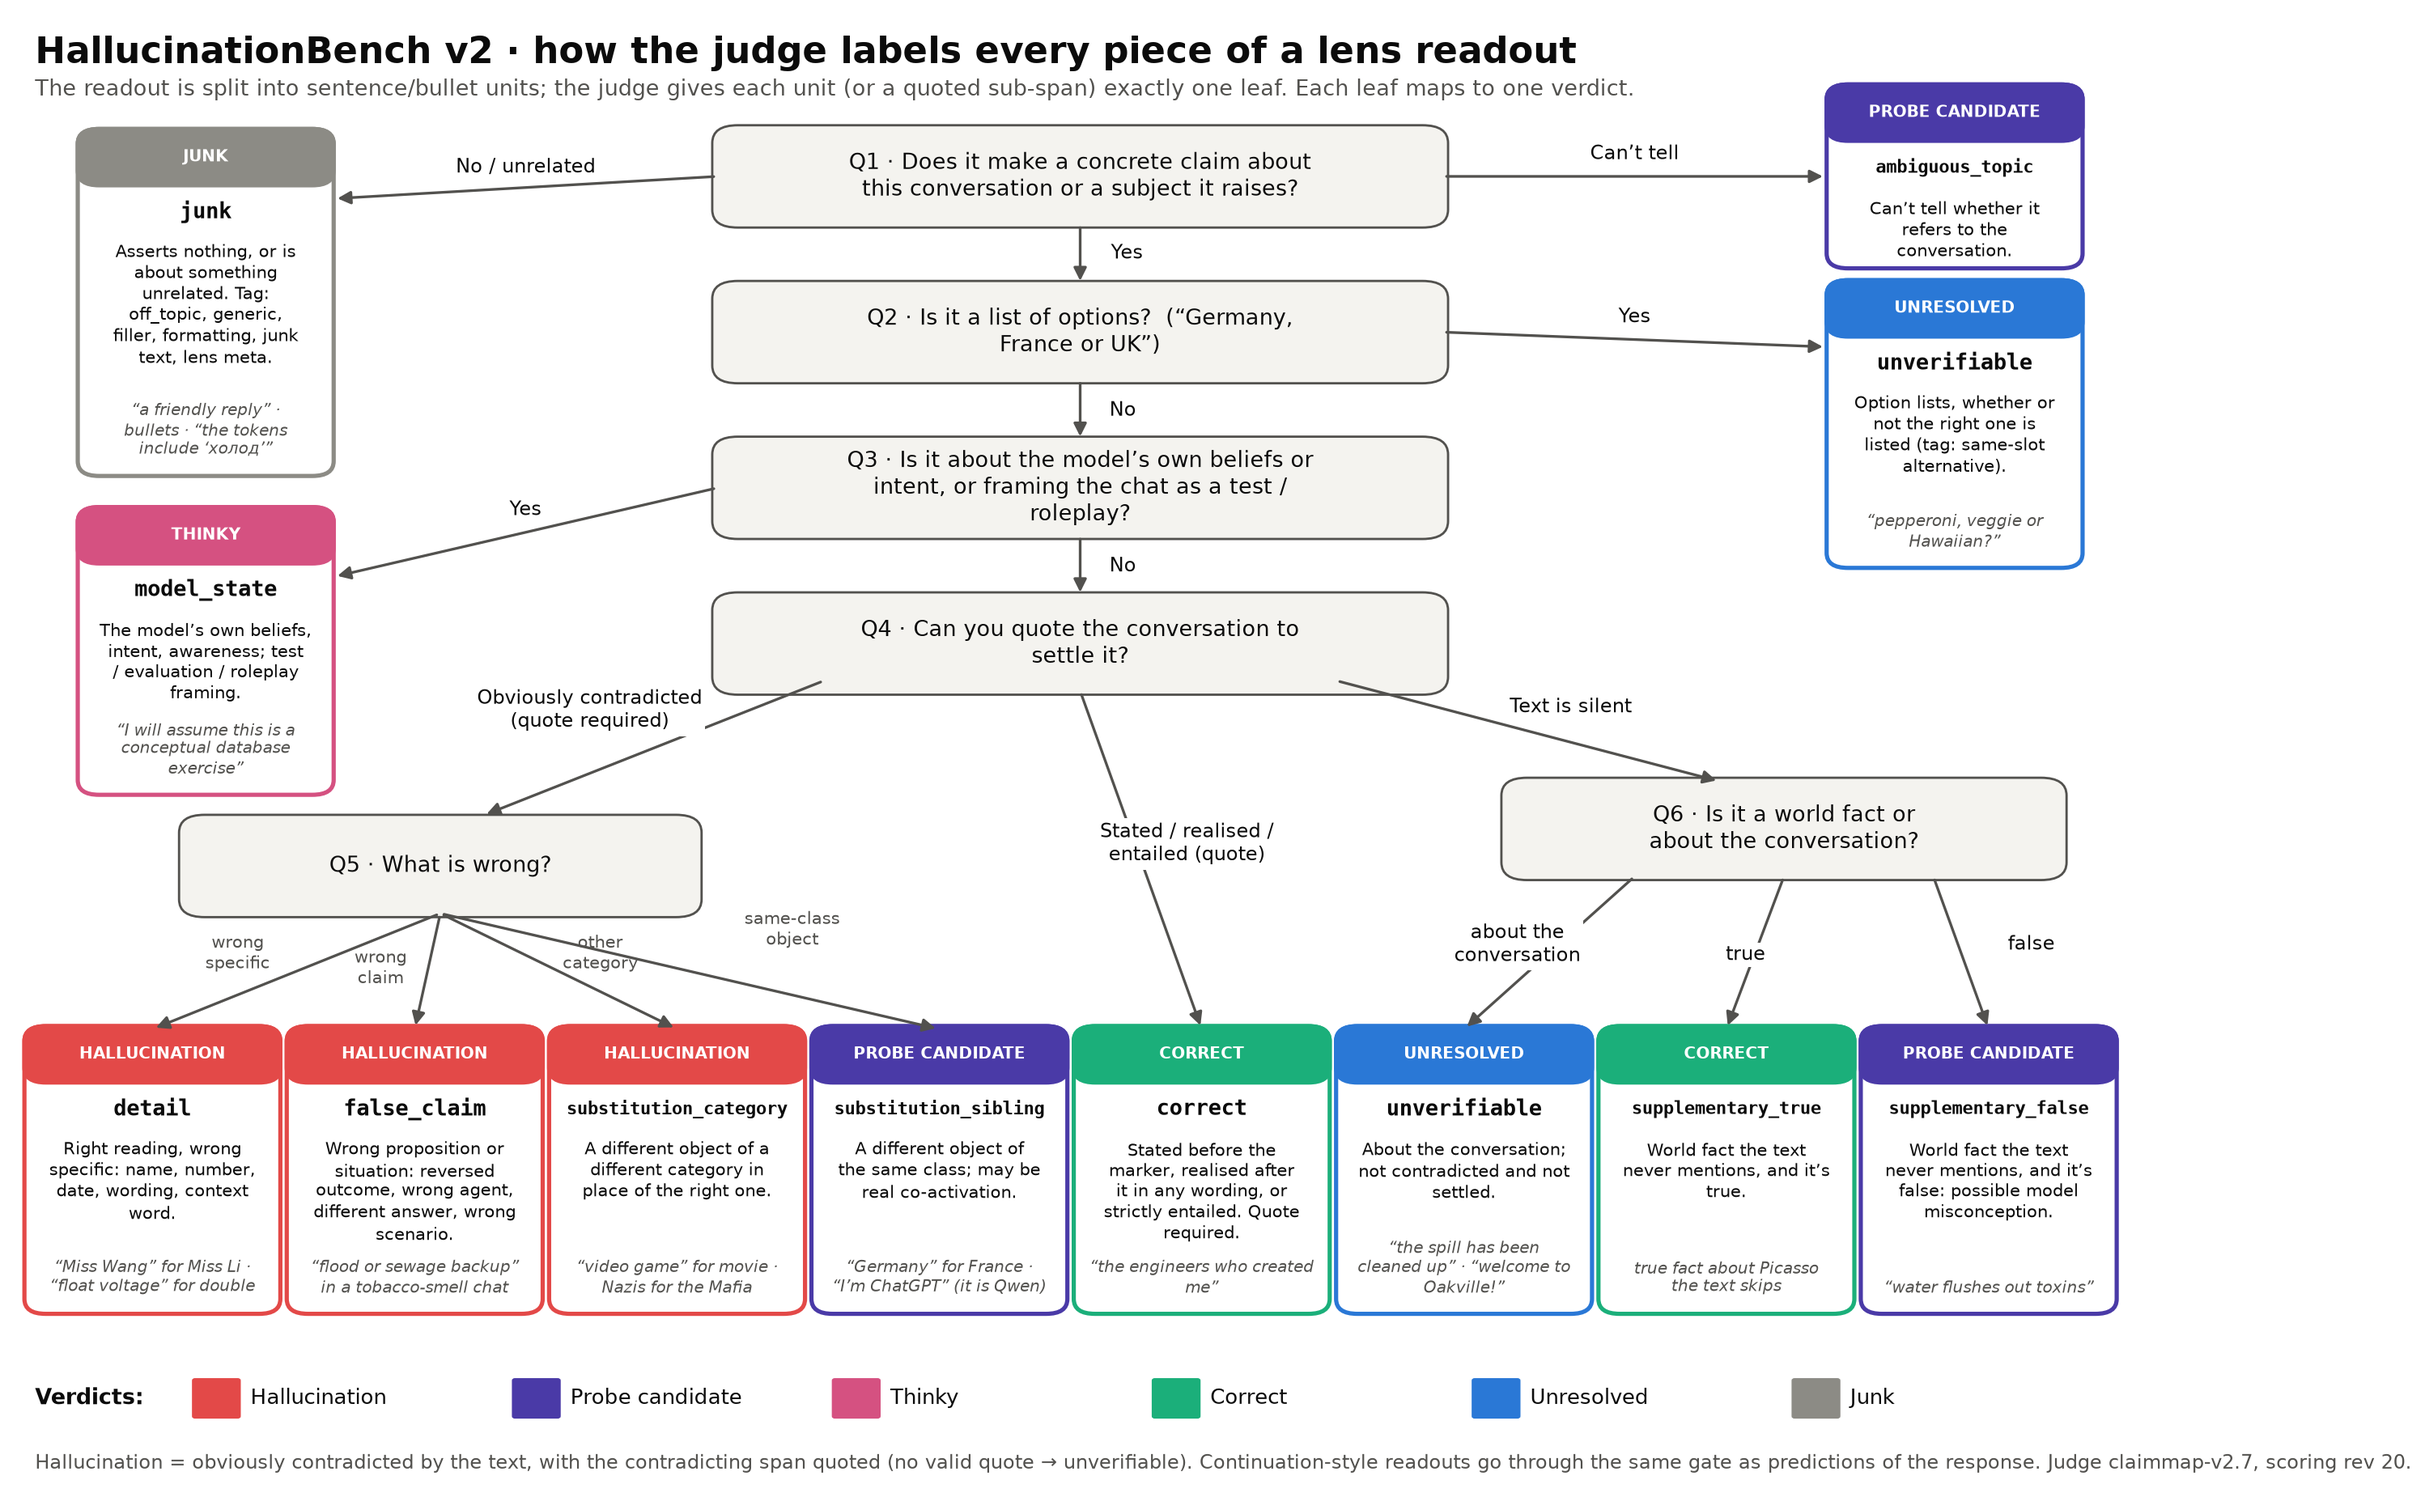
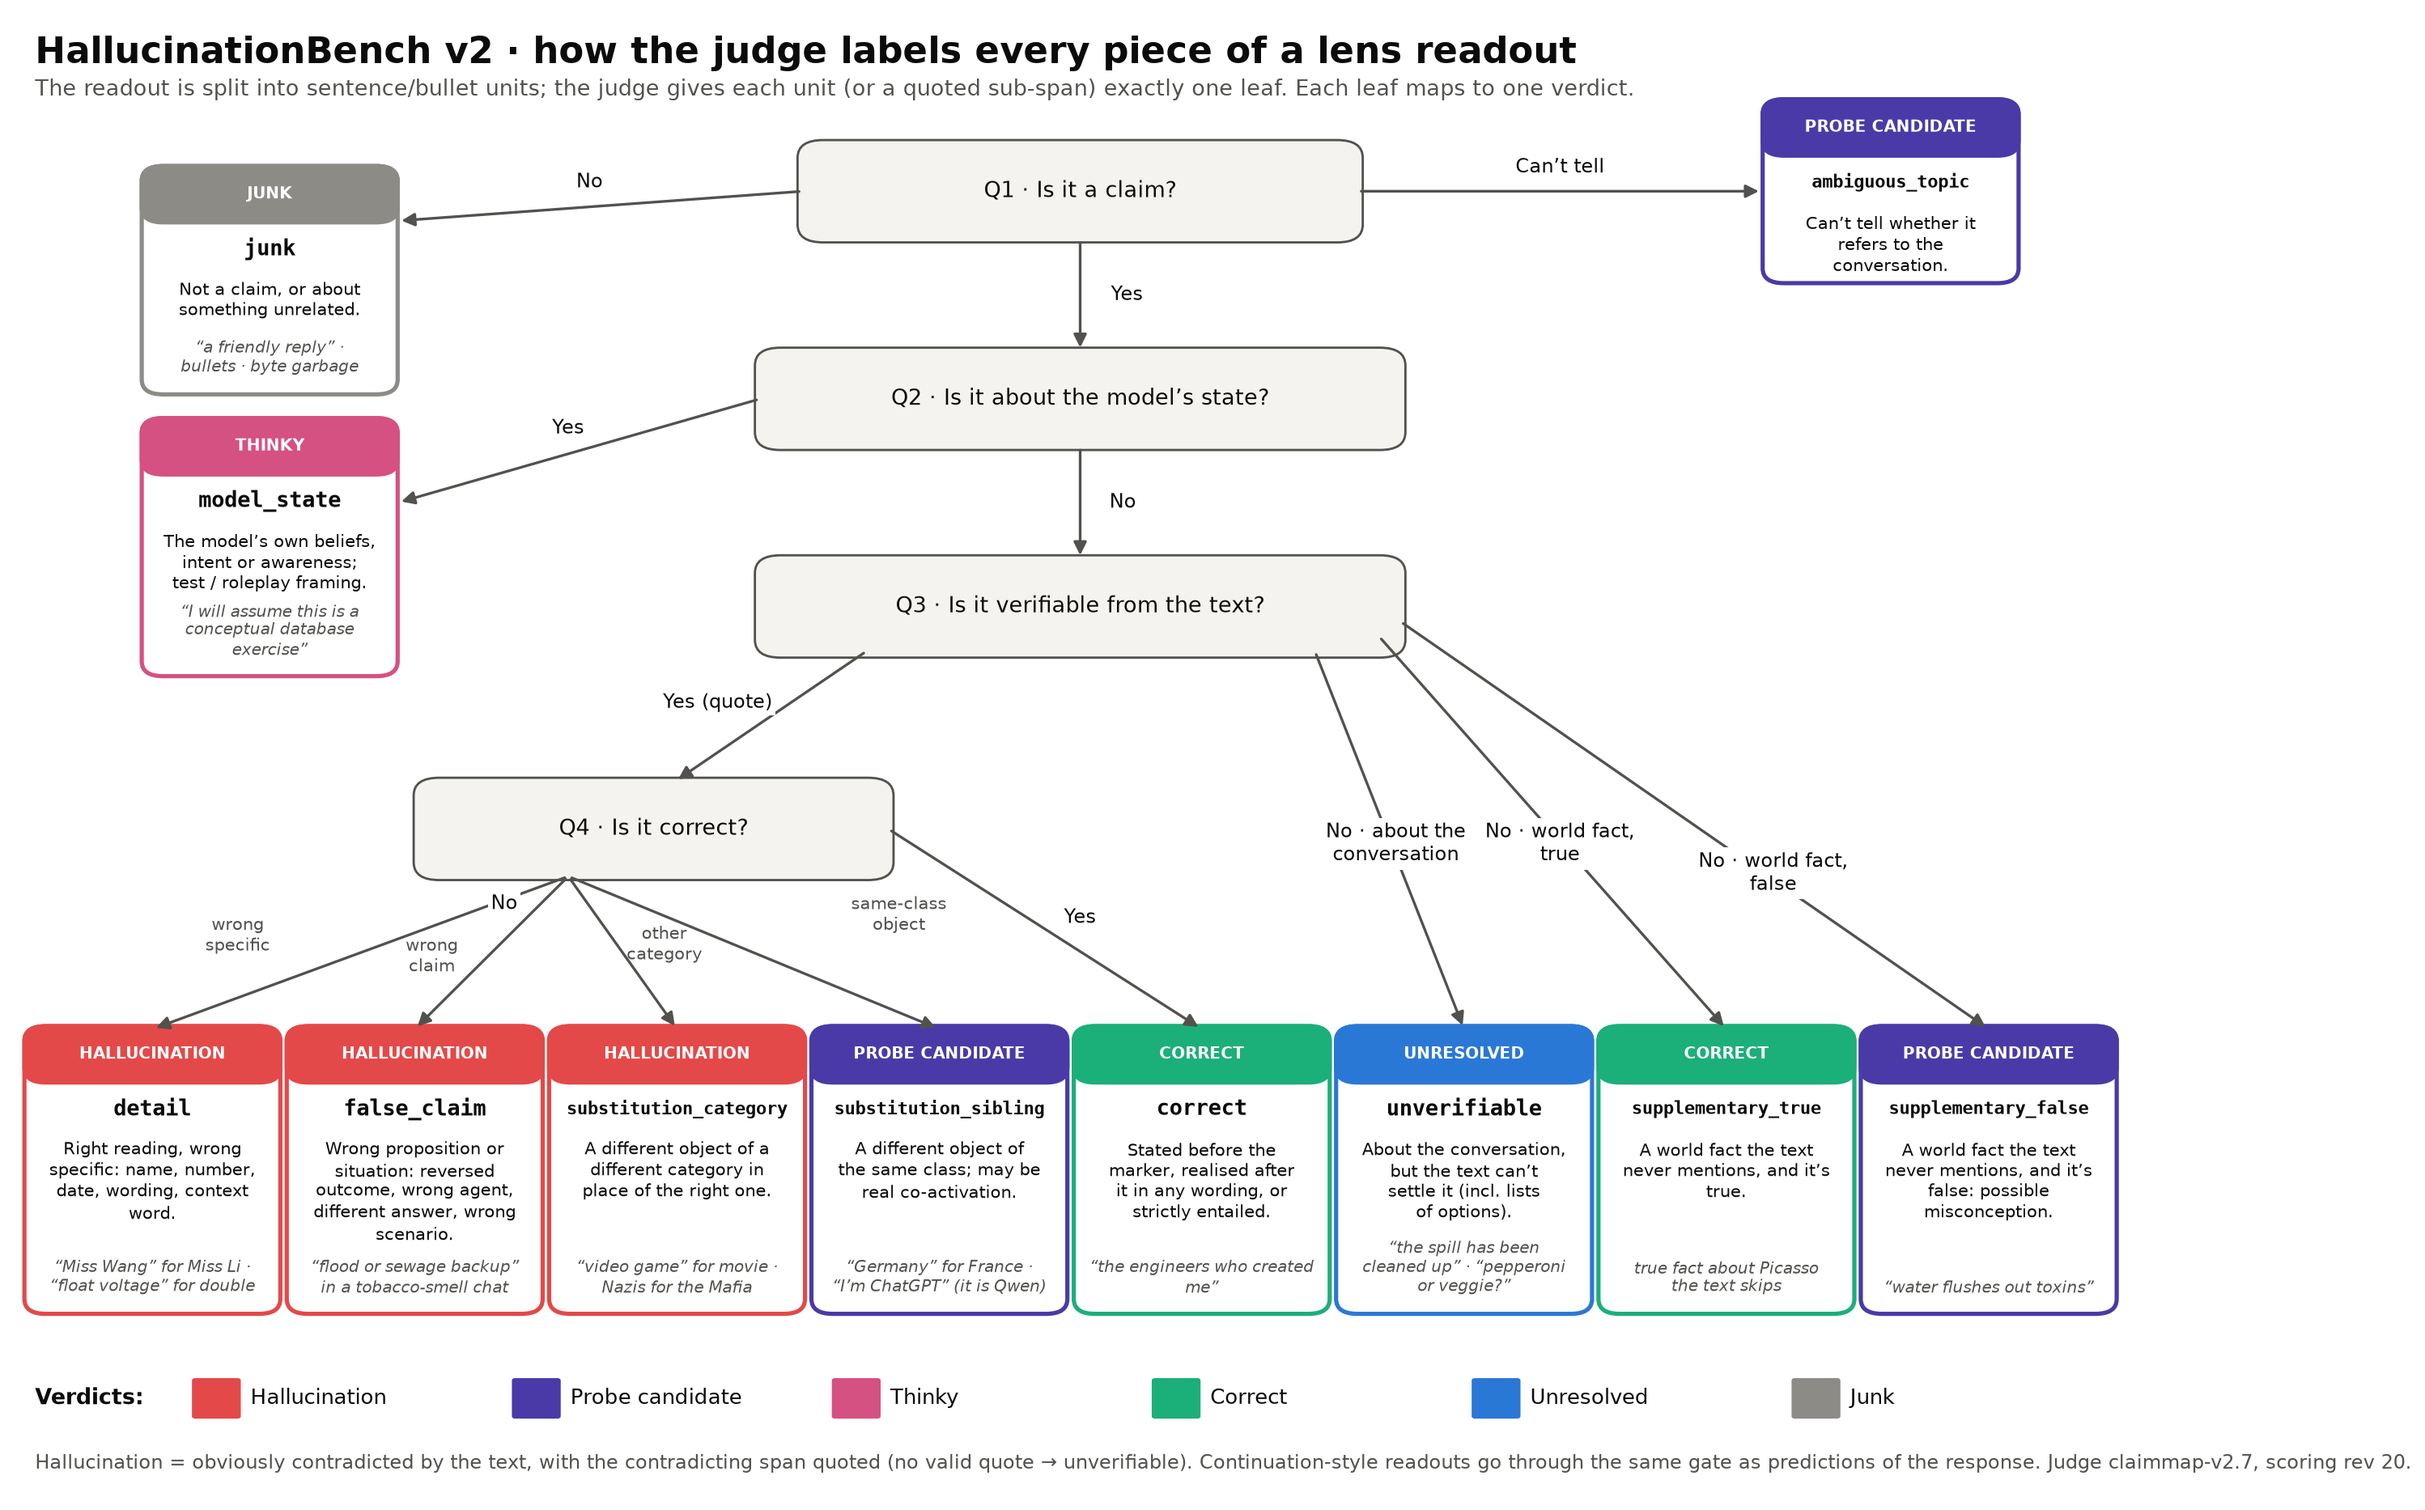
Judge-tree infographic: simplified to 4 questions (claim? model state? verifiable? correct?)

diff --git a/scripts/plot_judge_tree.py b/scripts/plot_judge_tree.py
@@ -164,65 +164,41 @@ def main() -> None:
     )
 
     # questions
-    question(
-        ax,
-        50,
-        89,
-        "Q1 · Does it make a concrete claim about this conversation or a subject it raises?",
-    )
-    question(ax, 50, 78.5, "Q2 · Is it a list of options?  (“Germany, France or UK”)")
-    question(
-        ax,
-        50,
-        68,
-        "Q3 · Is it about the model’s own beliefs or intent, or framing "
-        "the chat as a test / roleplay?",
-    )
-    question(ax, 50, 57.5, "Q4 · Can you quote the conversation to settle it?")
-    question(ax, 20, 42.5, "Q5 · What is wrong?", w=30, width=24)
-    question(ax, 83, 45, "Q6 · Is it a world fact or about the conversation?", w=30, width=26)
+    question(ax, 50, 88, "Q1 · Is it a claim?", w=40, width=26)
+    question(ax, 50, 74, "Q2 · Is it about the model\u2019s state?", w=40, width=30)
+    question(ax, 50, 60, "Q3 · Is it verifiable from the text?", w=40, width=30)
+    question(ax, 30, 45, "Q4 · Is it correct?", w=30, width=22)
 
     # side leaves
     card(
         ax,
-        9,
-        80.5,
+        12,
+        82,
         "JUNK",
         "junk",
-        "Asserts nothing, or is about something unrelated. "
-        "Tag: off_topic, generic, filler, formatting, junk text, lens meta.",
-        "“a friendly reply” · bullets · “the tokens include ‘холод’”",
-        h=23,
+        "Not a claim, or about something unrelated.",
+        "\u201ca friendly reply\u201d · bullets · byte garbage",
+        h=15,
     )
     card(
         ax,
-        91,
-        89,
+        88,
+        88,
         "PROBE CANDIDATE",
         "ambiguous_topic",
-        "Can’t tell whether it refers to the conversation.",
+        "Can\u2019t tell whether it refers to the conversation.",
         "",
         h=12,
     )
     card(
         ax,
-        91,
-        72.3,
-        "UNRESOLVED",
-        "unverifiable",
-        "Option lists, whether or not the right one is listed (tag: same-slot alternative).",
-        "“pepperoni, veggie or Hawaiian?”",
-        h=19,
-    )
-    card(
-        ax,
-        9,
-        57,
+        12,
+        64,
         "THINKY",
         "model_state",
-        "The model’s own beliefs, intent, awareness; test / evaluation / roleplay framing.",
-        "“I will assume this is a conceptual database exercise”",
-        h=19,
+        "The model\u2019s own beliefs, intent or awareness; test / roleplay framing.",
+        "\u201cI will assume this is a conceptual database exercise\u201d",
+        h=17,
     )
 
     # bottom row
@@ -234,7 +210,7 @@ def main() -> None:
         "HALLUCINATION",
         "detail",
         "Right reading, wrong specific: name, number, date, wording, context word.",
-        "“Miss Wang” for Miss Li · “float voltage” for double",
+        "\u201cMiss Wang\u201d for Miss Li · \u201cfloat voltage\u201d for double",
     )
     card(
         ax,
@@ -244,7 +220,7 @@ def main() -> None:
         "false_claim",
         "Wrong proposition or situation: reversed outcome, wrong agent, different answer, "
         "wrong scenario.",
-        "“flood or sewage backup” in a tobacco-smell chat",
+        "\u201cflood or sewage backup\u201d in a tobacco-smell chat",
     )
     card(
         ax,
@@ -253,7 +229,7 @@ def main() -> None:
         "HALLUCINATION",
         "substitution_category",
         "A different object of a different category in place of the right one.",
-        "“video game” for movie · Nazis for the Mafia",
+        "\u201cvideo game\u201d for movie · Nazis for the Mafia",
     )
     card(
         ax,
@@ -262,7 +238,7 @@ def main() -> None:
         "PROBE CANDIDATE",
         "substitution_sibling",
         "A different object of the same class; may be real co-activation.",
-        "“Germany” for France · “I’m ChatGPT” (it is Qwen)",
+        "\u201cGermany\u201d for France · \u201cI\u2019m ChatGPT\u201d (it is Qwen)",
     )
     card(
         ax,
@@ -270,9 +246,8 @@ def main() -> None:
         y,
         "CORRECT",
         "correct",
-        "Stated before the marker, realised after it in any wording, or strictly entailed. "
-        "Quote required.",
-        "“the engineers who created me”",
+        "Stated before the marker, realised after it in any wording, or strictly entailed.",
+        "\u201cthe engineers who created me\u201d",
     )
     card(
         ax,
@@ -280,8 +255,8 @@ def main() -> None:
         y,
         "UNRESOLVED",
         "unverifiable",
-        "About the conversation; not contradicted and not settled.",
-        "“the spill has been cleaned up” · “welcome to Oakville!”",
+        "About the conversation, but the text can\u2019t settle it (incl. lists of options).",
+        "\u201cthe spill has been cleaned up\u201d · \u201cpepperoni or veggie?\u201d",
     )
     card(
         ax,
@@ -289,7 +264,7 @@ def main() -> None:
         y,
         "CORRECT",
         "supplementary_true",
-        "World fact the text never mentions, and it’s true.",
+        "A world fact the text never mentions, and it\u2019s true.",
         "true fact about Picasso the text skips",
     )
     card(
@@ -298,35 +273,38 @@ def main() -> None:
         y,
         "PROBE CANDIDATE",
         "supplementary_false",
-        "World fact the text never mentions, and it’s false: possible model misconception.",
-        "“water flushes out toxins”",
+        "A world fact the text never mentions, and it\u2019s false: possible misconception.",
+        "\u201cwater flushes out toxins\u201d",
     )
 
-    # arrows: Q1
-    arrow(ax, 33, 89, 15, 87.5, "No / unrelated", 24, 89.6)
-    arrow(ax, 67, 89, 85, 89, "Can’t tell", 76, 90.5)
-    arrow(ax, 50, 85.8, 50, 81.7, "Yes", 52.2, 83.8)
-    # Q2
-    arrow(ax, 67, 78.5, 85, 77.5, "Yes", 76, 79.5)
-    arrow(ax, 50, 75.3, 50, 71.2, "No", 52, 73.2)
-    # Q3
-    arrow(ax, 33, 68, 15, 62, "Yes", 24, 66.5)
-    arrow(ax, 50, 64.8, 50, 60.7, "No", 52, 62.7)
-    # Q4 branches
-    arrow(ax, 38, 55, 22, 45.9, "Obviously contradicted\n(quote required)", 27, 53)
-    arrow(ax, 50, 54.3, 55.7, 31.5, "Stated / realised /\nentailed (quote)", 55, 44)
-    arrow(ax, 62, 55, 80, 48.2, "Text is silent", 73, 53.2)
-    # Q5
-    for x in (6.5, 18.8, 31.1, 43.4):
-        arrow(ax, 20, 39.3, x, 31.5)
-    ax.text(10.5, 35.6, "wrong\nspecific", fontsize=9, color=MUTED, ha="center")
-    ax.text(17.2, 34.6, "wrong\nclaim", fontsize=9, color=MUTED, ha="center")
-    ax.text(27.5, 35.6, "other\ncategory", fontsize=9, color=MUTED, ha="center")
-    ax.text(36.5, 37.2, "same-class\nobject", fontsize=9, color=MUTED, ha="center")
-    # Q6
-    arrow(ax, 76, 41.8, 68, 31.5, "about the\nconversation", 70.5, 37.2)
-    arrow(ax, 83, 41.8, 80.3, 31.5, "true", 81.2, 36.5)
-    arrow(ax, 90, 41.8, 92.6, 31.5, "false", 94.6, 37.2)
+    # arrows
+    arrow(ax, 37, 88, 18, 86, "No", 27, 88.6)
+    arrow(ax, 63, 88, 82, 88, "Can\u2019t tell", 72.5, 89.6)
+    arrow(ax, 50, 84.8, 50, 77.2, "Yes", 52.2, 81)
+    arrow(ax, 35, 74, 18, 67, "Yes", 26, 72)
+    arrow(ax, 50, 70.8, 50, 63.2, "No", 52, 67)
+    arrow(ax, 40, 57, 31, 48.2, "Yes (quote)", 33, 53.5)
+    arrow(ax, 41, 45, 55.7, 31.5, "Yes", 50, 39)
+    for x, lab, lx, ly in (
+        (6.5, "wrong specific", 10.5, 36.8),
+        (18.8, "wrong claim", 19.6, 35.4),
+        (31.1, "other category", 30.5, 36.2),
+        (43.4, "same-class object", 41.5, 38.2),
+    ):
+        arrow(ax, 26, 41.8, x, 31.5)
+        ax.text(lx, ly, wrap(lab, 10), fontsize=9, color=MUTED, ha="center")
+    ax.text(
+        23,
+        39.6,
+        "No",
+        fontsize=10,
+        color=TEXT,
+        ha="center",
+        bbox={"fc": "white", "ec": "none", "pad": 1.5},
+    )
+    arrow(ax, 61, 57, 68, 31.5, "No \u00b7 about the\nconversation", 64.8, 44)
+    arrow(ax, 64, 58, 80.3, 31.5, "No \u00b7 world fact,\ntrue", 72.5, 44)
+    arrow(ax, 65, 59, 92.6, 31.5, "No \u00b7 world fact,\nfalse", 82.5, 42)
 
     # legend
     x = 1
